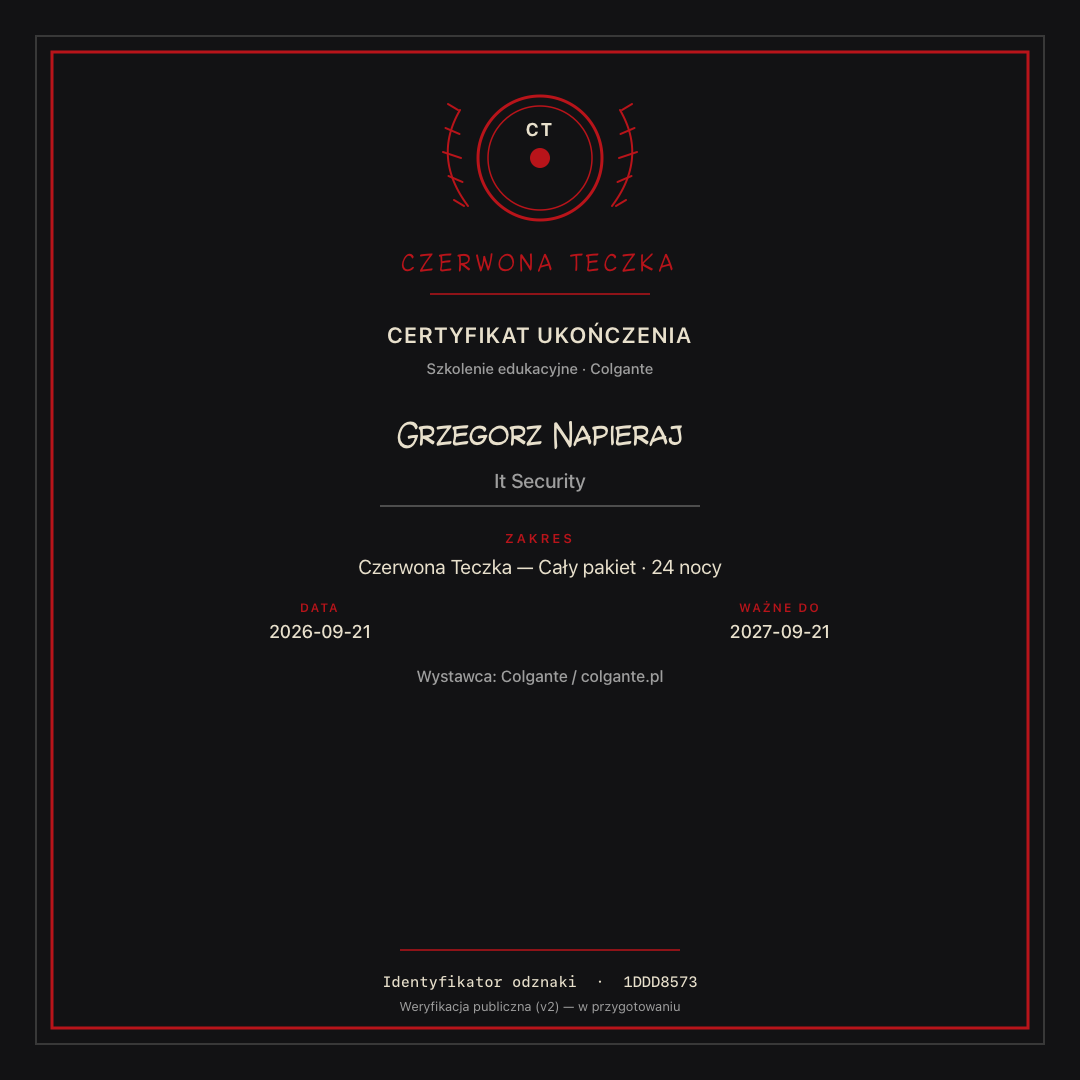
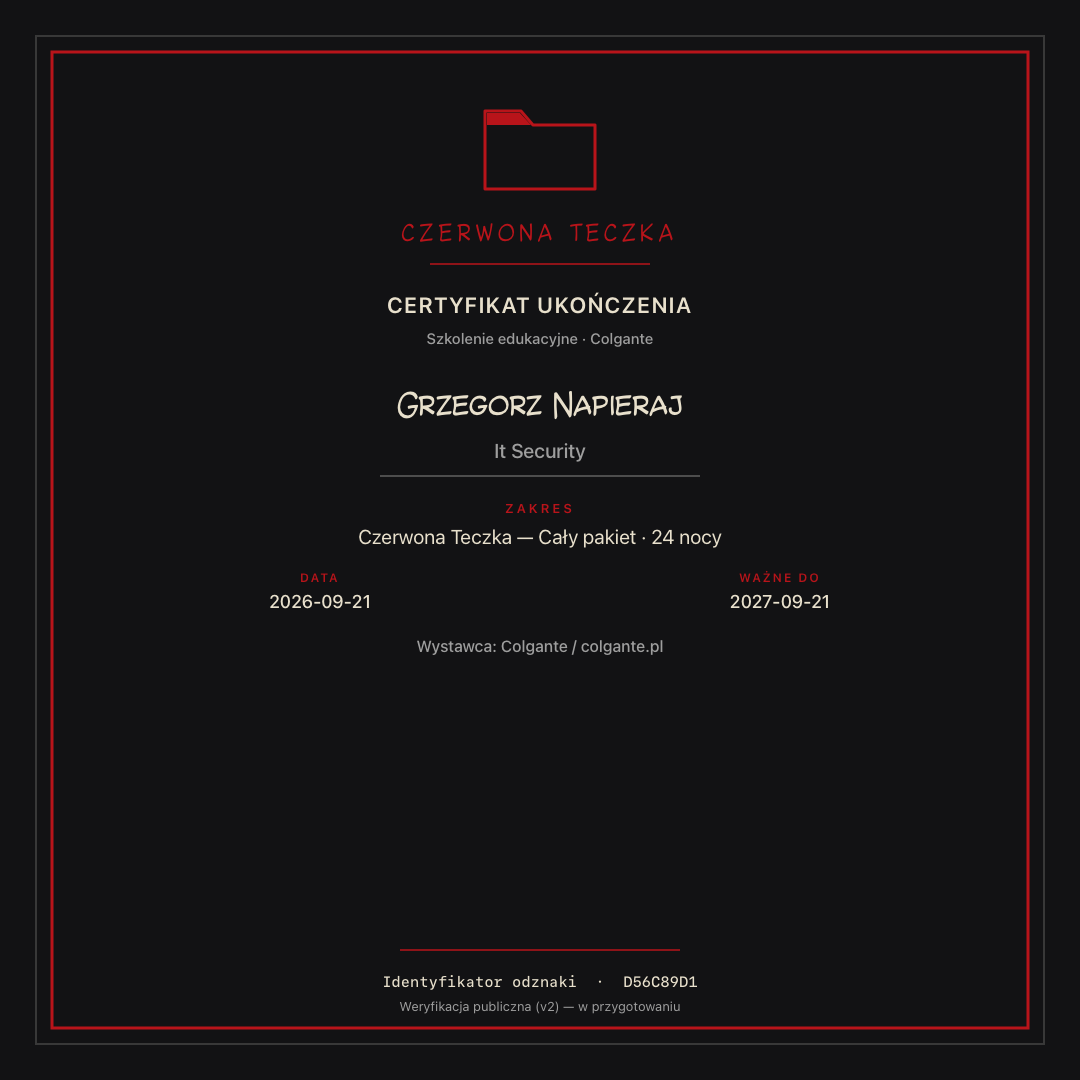
Use folder badge style for production reports

diff --git a/CzerwonaTeczkaTests/TrainingReportLayoutTests.swift b/CzerwonaTeczkaTests/TrainingReportLayoutTests.swift
@@ -50,7 +50,10 @@ final class TrainingReportLayoutTests: XCTestCase {
 
     func testBadgePNGIsNonEmpty() throws {
         let pack = try loadPack()
-        let png = ReportBadge.render(makeSeason0(pack: pack))
+        let report = makeSeason0(pack: pack)
+        let png = ReportBadge.render(report)
+        XCTAssertEqual(ReportBadge.productionStyle.rawValue, ReportBadge.Style.folder.rawValue)
+        XCTAssertEqual(png, ReportBadge.render(report, style: .folder), "default production badge style must be folder")
         XCTAssertGreaterThan(png.count, 5_000)
         XCTAssertTrue(png.starts(with: Data([0x89, 0x50, 0x4E, 0x47])))
     }
@@ -70,7 +73,7 @@ final class TrainingReportLayoutTests: XCTestCase {
         func write(_ name: String, _ report: TrainingReport) throws {
             try ReportPDF.render(report).write(to: fixtures.appendingPathComponent(name), options: .atomic)
             let badgeName = name.replacingOccurrences(of: ".pdf", with: "-badge.png")
-            try ReportBadge.render(report).write(to: fixtures.appendingPathComponent(badgeName), options: .atomic)
+            try ReportBadge.render(report, style: ReportBadge.productionStyle).write(to: fixtures.appendingPathComponent(badgeName), options: .atomic)
         }
 
         try write("sezon0-12.pdf", makeSeason0(pack: pack, name: "Grzegorz Napieraj", org: "It Security"))
@@ -106,19 +109,19 @@ final class TrainingReportLayoutTests: XCTestCase {
             }
         }
         let worldRoot = world.deletingLastPathComponent()
-        try ReportBadge.render(report).write(
+        try ReportBadge.render(report, style: ReportBadge.productionStyle).write(
             to: worldRoot.appendingPathComponent("pack-24-badge.png"),
             options: .atomic
         )
-        try ReportBadge.render(makeSeason0(pack: pack, name: "Grzegorz Napieraj", org: "It Security")).write(
+        try ReportBadge.render(makeSeason0(pack: pack, name: "Grzegorz Napieraj", org: "It Security"), style: ReportBadge.productionStyle).write(
             to: worldRoot.appendingPathComponent("sezon0-12-badge.png"),
             options: .atomic
         )
-        try ReportBadge.render(makeShortPack(pack: pack, nightsPerSeason: 3)).write(
+        try ReportBadge.render(makeShortPack(pack: pack, nightsPerSeason: 3), style: ReportBadge.productionStyle).write(
             to: worldRoot.appendingPathComponent("short-2x3-badge.png"),
             options: .atomic
         )
-        try ReportBadge.render(makeShortPack(pack: pack, nightsPerSeason: 4)).write(
+        try ReportBadge.render(makeShortPack(pack: pack, nightsPerSeason: 4), style: ReportBadge.productionStyle).write(
             to: worldRoot.appendingPathComponent("short-2x4-badge.png"),
             options: .atomic
         )

diff --git a/Engine/ReportBadge.swift b/Engine/ReportBadge.swift
@@ -1,17 +1,19 @@
 import UIKit
 
-/// Offline completion badge PNG — Credsverse-adjacent credential card (no traffic-sign seal).
+/// Offline completion badge PNG — folder-led diploma card (no traffic-sign seal).
 enum ReportBadge {
     static let size = CGSize(width: 1080, height: 1080)
 
-    /// Production default is `.credential`. Other styles exist for side-by-side previews.
+    /// Production default is `.folder`. Other styles exist for side-by-side previews.
     enum Style: String, CaseIterable {
         case credential // thin red rules + outline seal + typography
         case folder     // folder motif lead, diploma card
         case ribbon     // ribbon banner status, no disc
     }
 
-    static func render(_ report: TrainingReport, style: Style = .credential) -> Data {
+    static let productionStyle: Style = .folder
+
+    static func render(_ report: TrainingReport, style: Style = productionStyle) -> Data {
         let format = UIGraphicsImageRendererFormat()
         format.scale = 1
         format.opaque = true

diff --git a/Engine/ReportExporter.swift b/Engine/ReportExporter.swift
@@ -28,7 +28,7 @@ enum ReportExporter {
         try? fm.removeItem(at: directory)
         try fm.createDirectory(at: directory, withIntermediateDirectories: true)
         let base = baseName(for: report)
-        let badgeData = badge ?? ReportBadge.render(report)
+        let badgeData = badge ?? ReportBadge.render(report, style: ReportBadge.productionStyle)
         let files = ReportFiles(
             pdf: directory.appendingPathComponent("\(base).pdf"),
             badge: directory.appendingPathComponent("\(base)-badge.png"),

diff --git a/Views/EmployerReportView.swift b/Views/EmployerReportView.swift
@@ -414,7 +414,7 @@ struct EmployerReportView: View {
         config.language = lang
         let report = ReportBuilder.make(evaluation: evaluation, allLessons: store.lessons, form: store.reportForm, config: config)
         let pdf = ReportPDF.render(report)
-        let badge = ReportBadge.render(report)
+        let badge = ReportBadge.render(report, style: ReportBadge.productionStyle)
         let fresh = CachedReport(scope: evaluation.scope, report: report, pdf: pdf, badge: badge)
         cached = fresh
         return fresh
